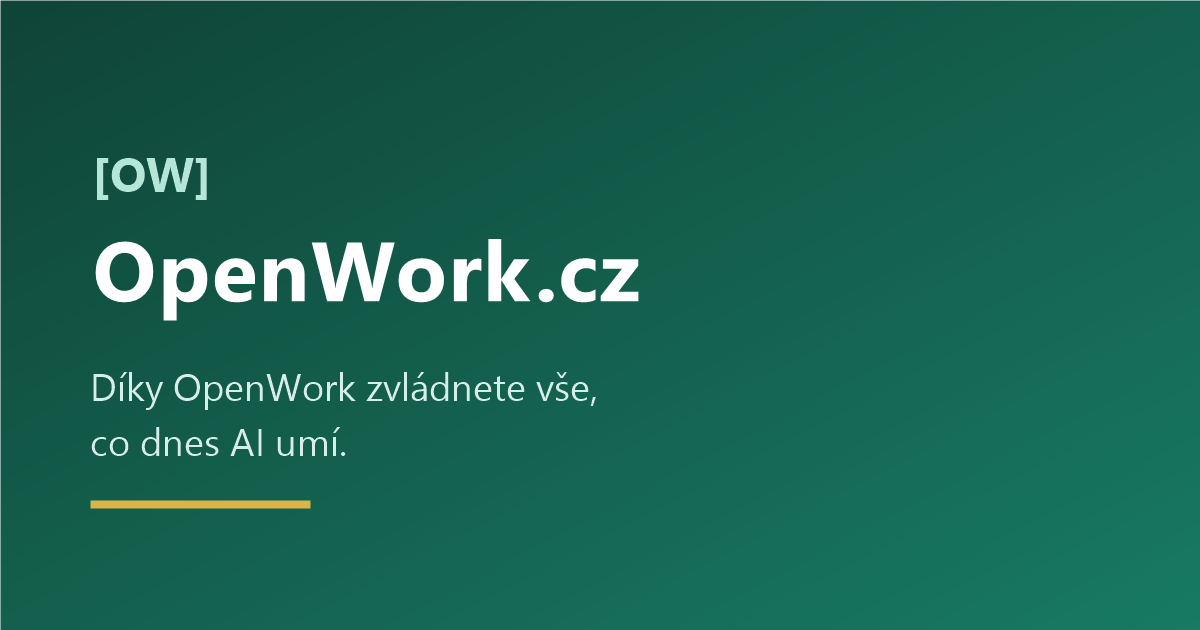
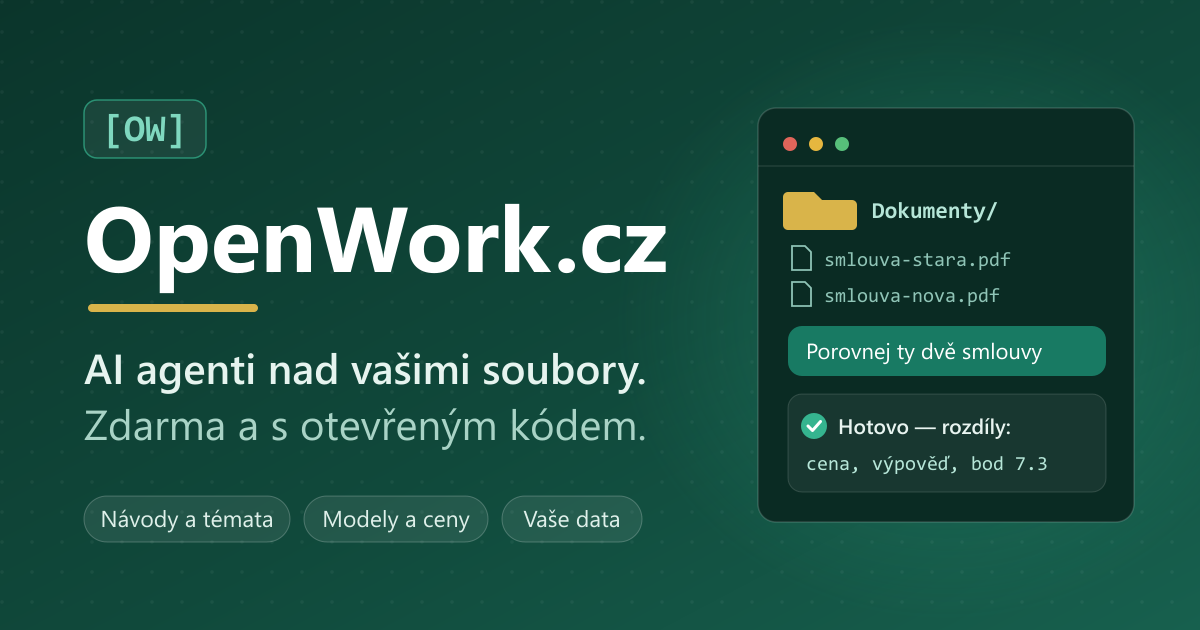
Nový náhledový obrázek pro sdílení a oprava náhledu na X
- og-zdroj.svg přepracován: značka [OW], tagline, štítky obsahu
  a stylizované okno aplikace (složka, dotaz, odpověď AI)
- public/og.png přegenerován (1200×630, sharp)
- astro.config.mjs: explicitní twitter:image + twitter:image:alt,
  URL obrázku verzovaná (?v=2) kvůli cache sociálních sítí

diff --git a/poznamky-agenta.md b/poznamky-agenta.md
@@ -146,7 +146,10 @@ změně webu). Použitá tvrzení na homepage:
   ve `vystup/web/src/data/`; odkazy v README/AGENTS.md/hlídači opraveny.
 - **SEO:** `og:title` na úvodních stránkách; náhledový obrázek `public/og.png`
   (1200×630, zdroj návrhu `vystup/web/og-zdroj.svg` — povolená výjimka
-  z pravidla „žádné rastrové obrázky", zapsána v AGENTS.md); JSON-LD WebSite +
+  z pravidla „žádné rastrové obrázky", zapsána v AGENTS.md; PNG se generuje
+  přes `sharp` z node_modules: `sharp(svg).resize(1200, 630).png()`; meta URL
+  nese `?v=N` kvůli cache sociálních sítí — při změně obrázku zvýšit verzi
+  v `astro.config.mjs` u `og:image` i `twitter:image`); JSON-LD WebSite +
   Organization site-wide a FAQPage na častých otázkách (CZ i SK, ve frontmatter
   `head:` — při změně otázek aktualizovat i JSON-LD).
 - **Parita CZ/SK:** doplněny vypuštěné pasáže v `sk/vase-data/openwork-vs-cowork`
